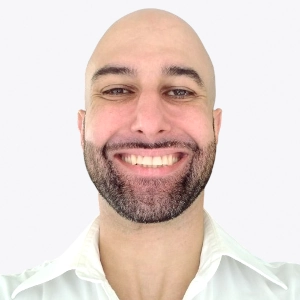
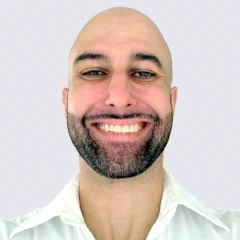
Update background

diff --git a/styles/css/style.css b/styles/css/style.css
@@ -1,1 +1,1 @@
-@font-face{font-display:swap;font-family:"Encode Sans";font-stretch:75% 125%;font-style:normal;font-weight:100 900;src:local(Encode Sans),local(EncodeSans),url(../../fonts/EncodeSans-VariableFont_wdth,wght.ttf) format(truetype) tech(variations)}@font-face{display:swap;font-family:Lora;font-style:normal;font-weight:400 700;src:local(Lora),url(../../fonts/Lora-VariableFont_wght.ttf) format(truetype) tech(variations)}@font-face{font-display:swap;font-family:Inconsolata;font-stretch:50% 200%;font-style:normal;font-weight:200 900;src:local(Inconsolata),url(../../fonts/Inconsolata-VariableFont_wdth,wght.ttf) format(truetype) tech(variations)}@keyframes stretch{to{width:100%}}@keyframes grow{to{padding:0}}*,::after,::before{border:0;box-sizing:border-box;font-size:inherit;font-family:inherit;font-weight:inherit;line-height:inherit;margin:0;padding:0}html{font-size:18px;height:100%}body{background-color:#f3f5f6;color:#22222f;font:400 1rem / 1.618 Lora,serif;min-height:100%;text-rendering:optimizeLegibility}.grid{display:grid;gap:1rem .5rem;padding:1rem .5rem}hr{animation:stretch 1000ms ease-out forwards 125ms;border-top:0;width:0}hr:first-of-type{margin-right:auto}hr:last-of-type{margin-left:auto}h1,.h1{font-family:"Encode Sans",sans-serif;font-size:2rem;font-stretch:112.5%;font-weight:700;letter-spacing:.0625rem;line-height:1.272;text-align:center}h2,.h2{font-family:"Encode Sans",sans-serif;font-size:1.5874rem;font-stretch:112.5%;font-weight:500;letter-spacing:.0625rem;line-height:1.272}h3,.h3{font-family:"Encode Sans",sans-serif;font-size:1.2599rem;font-stretch:112.5%;letter-spacing:.0625rem;line-height:1.272;text-align:center}p{margin:1rem 0}p:last-child{margin-bottom:0}.small{font-size:.7937rem}ul{display:flex;flex-direction:column;list-style:none;margin:1rem 0}ul:last-child{margin-bottom:0}a,a:any-link{color:#057af0;text-decoration:none;transition:color 250ms ease-out;user-select:all;overflow-wrap:break-word}a:hover,a:any-link:hover{color:#057af0}strong{font-weight:700}.crypto-address{font-family:Inconsolata,monospace;font-stretch:93.75%;user-select:all;word-break:break-all}header{background:linear-gradient(90deg, hsl(210, 92%, 48%), hsl(300, 92%, 48%));color:#f3f5f6}header .grid{padding:2rem 0}main{padding:1rem 0}main ul{list-style:inside}#about img{background-color:linear-gradient(90deg, hsl(210, 92%, 48%), hsl(300, 92%, 48%));border:1px solid #dcdce5;border-radius:50%;display:block;height:auto;margin:0 auto 1rem;width:11.3137rem}footer{background:linear-gradient(90deg, hsl(210, 92%, 48%), hsl(300, 92%, 48%));color:#f3f5f6;font-family:"Encode Sans",sans-serif;font-size:.7937rem}footer .grid{padding:2rem 0}footer a,footer a:any-link{color:#f3f5f6}footer a:hover,footer a:any-link:hover{color:#f3f5f6}footer ul{flex-direction:row;gap:1rem;justify-content:center;margin:0}footer ul a{align-items:center;display:flex}footer ul svg{height:1.5874rem;padding:.2937rem;width:auto}footer .author{display:block;margin-top:1rem;text-align:center}@media only screen and (min-width: 768px){.grid{gap:2rem 1rem;grid-template-columns:repeat(3, 1fr);padding:2rem 1rem}.grid__item{grid-column:1/4}main{padding:2rem 0}#about .grid__item:nth-child(1){grid-column:1}#about .grid__item:nth-child(2){grid-column:2/4}#about img{width:100%;max-width:11.3137rem}footer ul svg:hover{animation:grow 250ms ease-out forwards}}@media only screen and (min-width: 1152px){.grid{grid-template-columns:repeat(6, 1fr)}.grid__item{grid-column:2/6}#about .grid__item:nth-child(1){grid-column:2}#about .grid__item:nth-child(2){grid-column:3/6}}/*# sourceMappingURL=style.css.map */
+@font-face{font-display:swap;font-family:"Encode Sans";font-stretch:75% 125%;font-style:normal;font-weight:100 900;src:local(Encode Sans),local(EncodeSans),url(../../fonts/EncodeSans-VariableFont_wdth,wght.ttf) format(truetype) tech(variations)}@font-face{display:swap;font-family:Lora;font-style:normal;font-weight:400 700;src:local(Lora),url(../../fonts/Lora-VariableFont_wght.ttf) format(truetype) tech(variations)}@font-face{font-display:swap;font-family:Inconsolata;font-stretch:50% 200%;font-style:normal;font-weight:200 900;src:local(Inconsolata),url(../../fonts/Inconsolata-VariableFont_wdth,wght.ttf) format(truetype) tech(variations)}@keyframes stretch{to{width:100%}}@keyframes grow{to{padding:0}}*,::after,::before{border:0;box-sizing:border-box;font-size:inherit;font-family:inherit;font-weight:inherit;line-height:inherit;margin:0;padding:0}html{font-size:18px;height:100%}body{background-color:#fff;color:#22222f;font:400 1rem / 1.618 Lora,serif;min-height:100%;text-rendering:optimizeLegibility}.grid{display:grid;gap:1rem .5rem;padding:1rem .5rem}hr{animation:stretch 1000ms ease-out forwards 125ms;border-top:0;width:0}hr:first-of-type{margin-right:auto}hr:last-of-type{margin-left:auto}h1,.h1{font-family:"Encode Sans",sans-serif;font-size:2rem;font-stretch:112.5%;font-weight:700;letter-spacing:.0625rem;line-height:1.272;text-align:center}h2,.h2{font-family:"Encode Sans",sans-serif;font-size:1.5874rem;font-stretch:112.5%;font-weight:500;letter-spacing:.0625rem;line-height:1.272}h3,.h3{font-family:"Encode Sans",sans-serif;font-size:1.2599rem;font-stretch:112.5%;letter-spacing:.0625rem;line-height:1.272;text-align:center}p{margin:1rem 0}p:last-child{margin-bottom:0}.small{font-size:.7937rem}ul{display:flex;flex-direction:column;list-style:none;margin:1rem 0}ul:last-child{margin-bottom:0}a,a:any-link{color:#057af0;text-decoration:none;transition:color 250ms ease-out;user-select:all;overflow-wrap:break-word}a:hover,a:any-link:hover{color:#057af0}strong{font-weight:700}.crypto-address{font-family:Inconsolata,monospace;font-stretch:93.75%;user-select:all;word-break:break-all}header{background:linear-gradient(90deg, hsl(210, 92%, 48%), hsl(300, 92%, 48%));color:#fff}header .grid{padding:2rem 0}main{padding:1rem 0}main ul{list-style:inside}#about img{background-color:linear-gradient(90deg, hsl(210, 92%, 48%), hsl(300, 92%, 48%));border:1px solid #dcdce5;border-radius:50%;display:block;height:auto;margin:0 auto 1rem;width:11.3137rem}footer{background:linear-gradient(90deg, hsl(210, 92%, 48%), hsl(300, 92%, 48%));color:#fff;font-family:"Encode Sans",sans-serif;font-size:.7937rem}footer .grid{padding:2rem 0}footer a,footer a:any-link{color:#fff}footer a:hover,footer a:any-link:hover{color:#fff}footer ul{flex-direction:row;gap:1rem;justify-content:center;margin:0}footer ul a{align-items:center;display:flex}footer ul svg{height:1.5874rem;padding:.2937rem;width:auto}footer .author{display:block;margin-top:1rem;text-align:center}@media only screen and (min-width: 768px){.grid{gap:2rem 1rem;grid-template-columns:repeat(3, 1fr);padding:2rem 1rem}.grid__item{grid-column:1/4}main{padding:2rem 0}#about .grid__item:nth-child(1){grid-column:1}#about .grid__item:nth-child(2){grid-column:2/4}#about img{width:100%;max-width:11.3137rem}footer ul svg:hover{animation:grow 250ms ease-out forwards}}@media only screen and (min-width: 1152px){.grid{grid-template-columns:repeat(6, 1fr)}.grid__item{grid-column:2/6}#about .grid__item:nth-child(1){grid-column:2}#about .grid__item:nth-child(2){grid-column:3/6}}/*# sourceMappingURL=style.css.map */

diff --git a/styles/scss/_variables.scss b/styles/scss/_variables.scss
@@ -1,11 +1,11 @@
 $dark-theme: false;
 
 $header_background: linear-gradient(90deg, hsl(210, 92%, 48%), hsl(300, 92%, 48%));
-$header_color: hsl(210, 16%, 96%);
+$header_color: hsl(210, 16%, 100%);
 $header_font: "Encode Sans", sans-serif;
 $header_line-height: 1.272;
 
-$background: hsl(210, 16%, 96%);
+$background: $header_color;
 $border: 1px solid hsl(240, 16%, 88%);
 $color: hsl(240, 16%, 16%);
 $font: Lora, serif;
